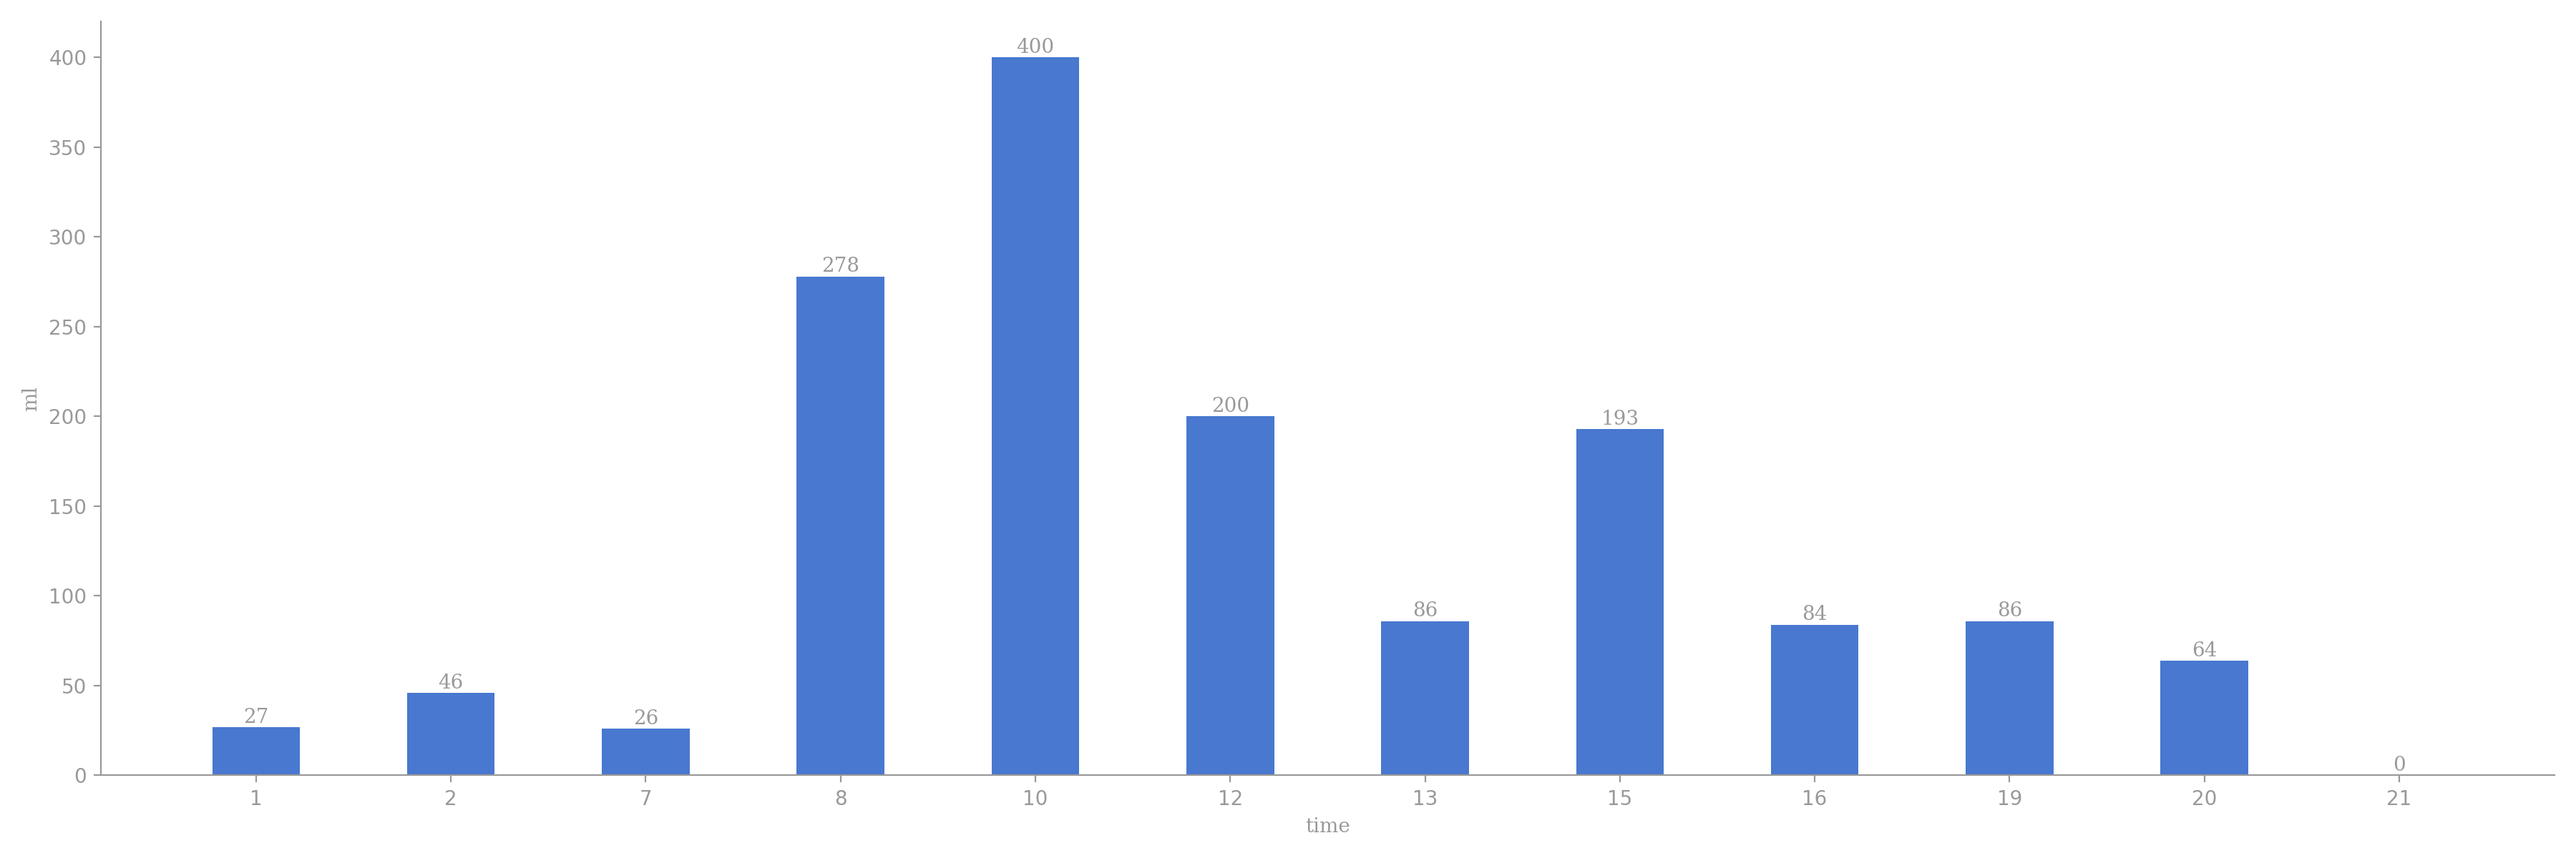
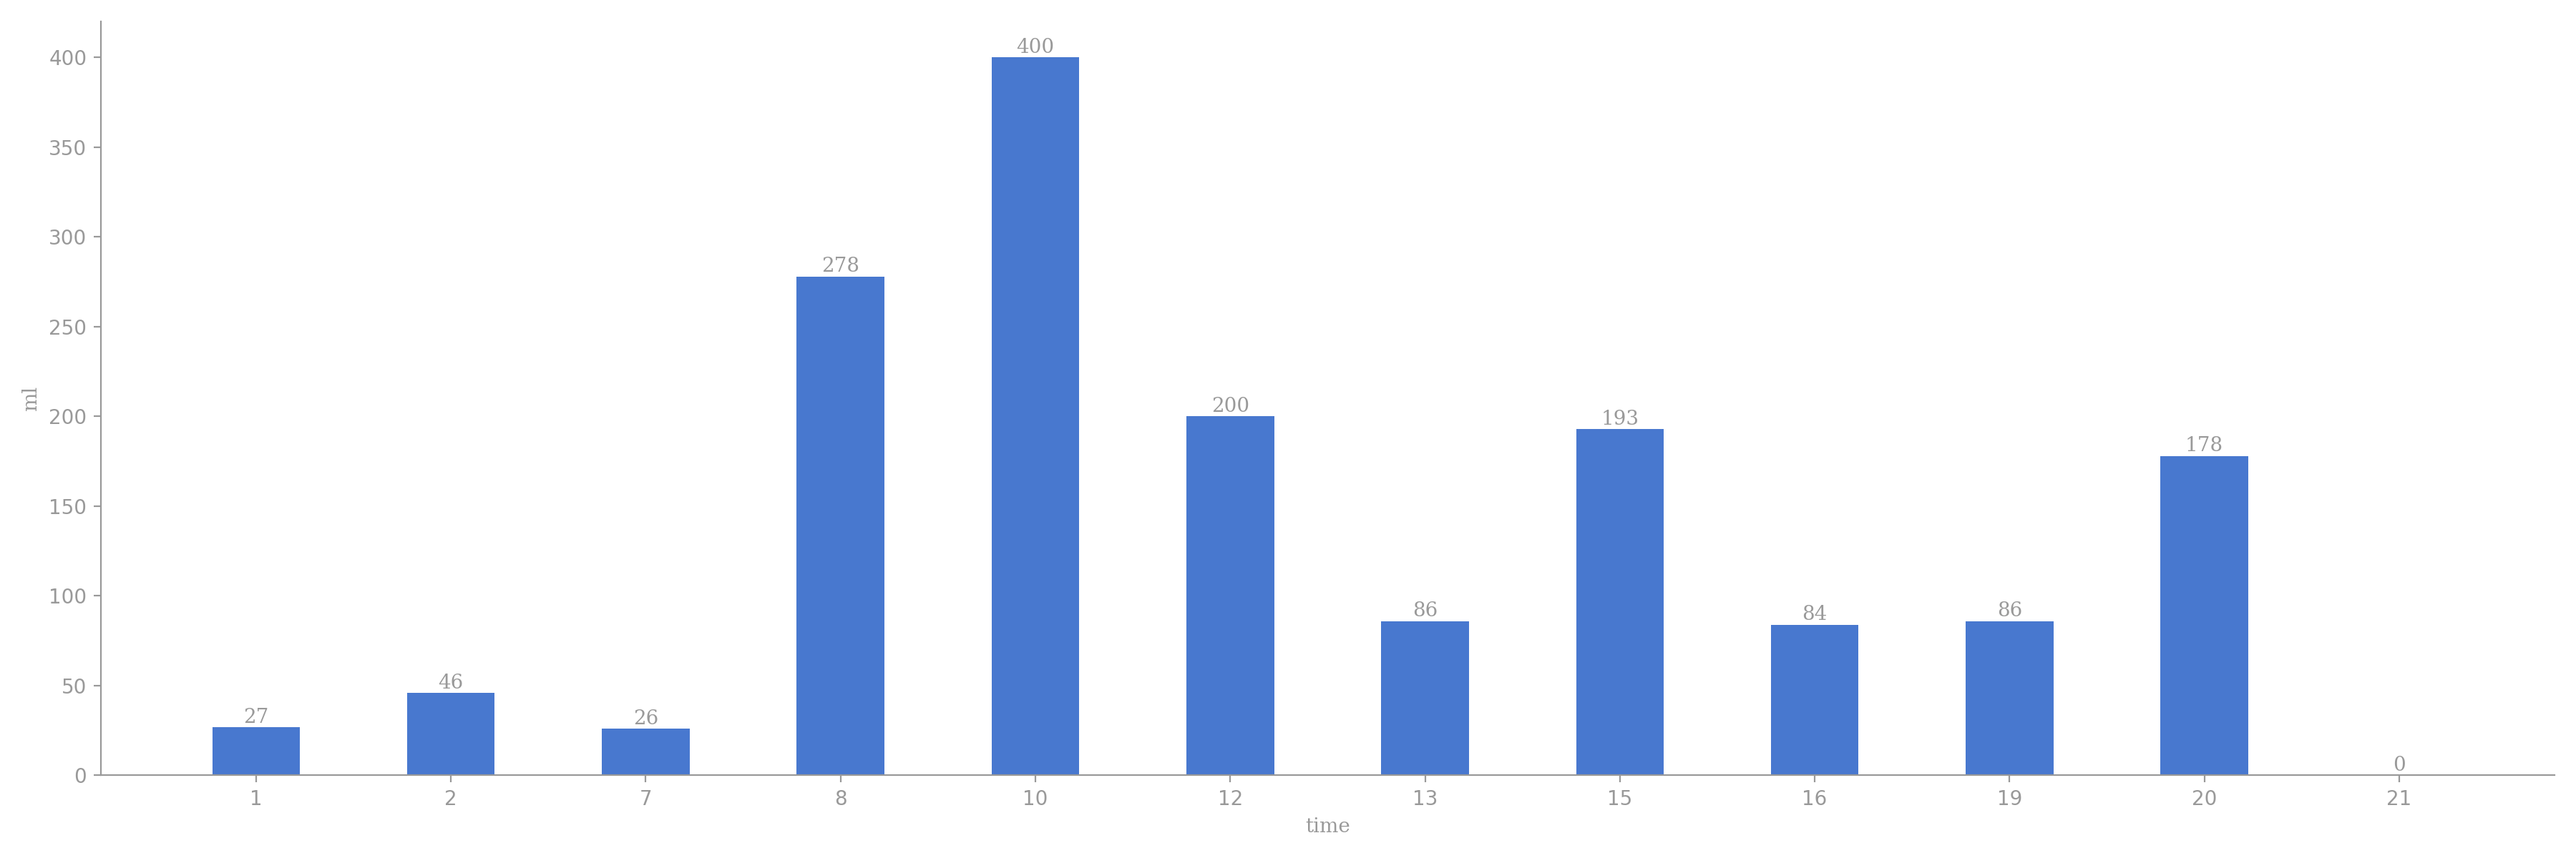
crontab auto git

Changed region(s): [[0.84, 0.5242, 0.8711, 0.7708]]

diff --git a/README.md b/README.md
@@ -5,12 +5,12 @@
 
 | 今日总饮水量 | 每小时平均饮水量 |
 | :----: | :----: |
-| 1490 | 135 |
+| 1604 | 145 |
 </div>
 
-| 日期 | 01:11:36 | 02:01:02 | 07:50:54 | 08:12:07 | 08:23:19 | 08:41:06 | 10:14:30 | 12:15:50 | 13:04:34 | 15:03:36 | 15:45:28 | 16:11:24 | 19:49:00 | 20:07:47 |
-| :----: | :----: | :----: | :----: | :----: | :----: | :----: | :----: | :----: | :----: | :----: | :----: | :----: | :----: | :----: |
-| 2026-02-02 | 27 | 46 | 26 | 177 | 53 | 48 | 400 | 200 | 86 | 101 | 92 | 84 | 86 | 64 |
+| 日期 | 01:11:36 | 02:01:02 | 07:50:54 | 08:12:07 | 08:23:19 | 08:41:06 | 10:14:30 | 12:15:50 | 13:04:34 | 15:03:36 | 15:45:28 | 16:11:24 | 19:49:00 | 20:07:47 | 20:25:48 |
+| :----: | :----: | :----: | :----: | :----: | :----: | :----: | :----: | :----: | :----: | :----: | :----: | :----: | :----: | :----: | :----: |
+| 2026-02-02 | 27 | 46 | 26 | 177 | 53 | 48 | 400 | 200 | 86 | 101 | 92 | 84 | 86 | 64 | 114 |
 
 # 近30日饮水数据
 
